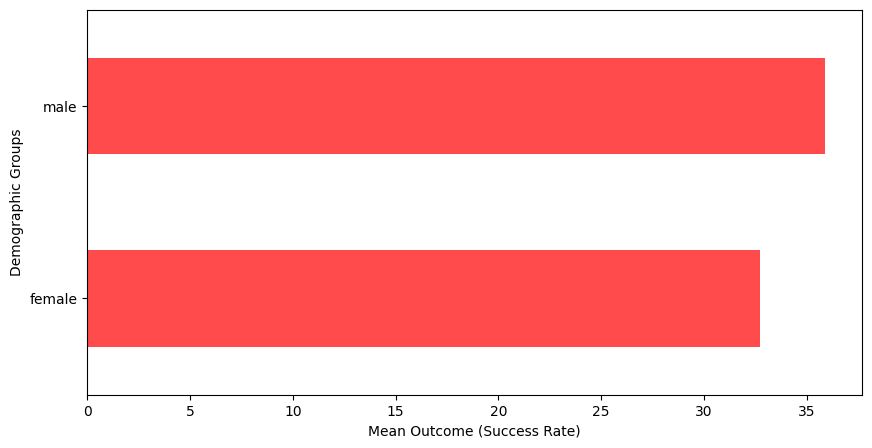
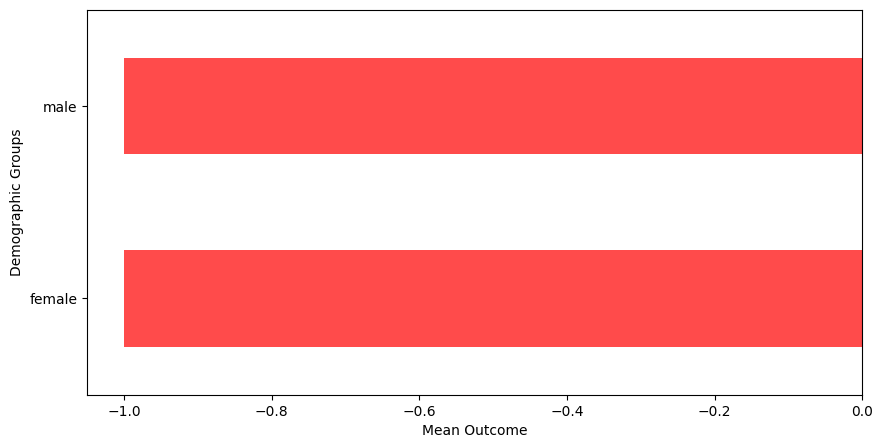
Changing the model

diff --git a/ai_auditor.py b/ai_auditor.py
@@ -57,7 +57,7 @@ def generate_ai_report(audit_results, is_mitigated=False):
     try:
         if client:
             # Using 1.5-flash for higher reliability during long generations
-            response = client.models.generate_content(model="gemini-1.5-flash", contents=prompt)
+            response = client.models.generate_content(model="gemini-2.5-flash-lite", contents=prompt)
             return {"risk": risk, "finding": response.text, "source": "Certified by Gemini 1.5 Flash"}
     except Exception:
         return {
@@ -97,7 +97,7 @@ def get_chatbot_response(user_query, audit_results, df_context):
     
     try:
         if client:
-            response = client.models.generate_content(model="gemini-1.5-flash", contents=prompt)
+            response = client.models.generate_content(model="gemini-2.5-flash-lite", contents=prompt)
             return response.text
     except Exception:
         return "I'm currently focused on the current audit. Feel free to ask about the bias score or column risks!"
@@ -238,21 +238,11 @@ Be concise and technical.
             return ""
 
         response = client.models.generate_content(
-            model="gemini-2.0-flash",
+            model="gemini-2.5-flash-lite",
             contents=prompt
         )
 
         return response.text
 
-    except:
-        # fallback (still contextual)
-        if context_type == "analysis" and stats:
-            gap = stats.get("gap", 0)
-            if gap > 15:
-                return "High disparity detected. Likely unfair across groups."
-            elif gap > 5:
-                return "Moderate disparity. Needs monitoring."
-            else:
-                return "Low disparity. System is relatively fair."
-
-        return "AI insight unavailable. Please check configuration."
+    except Exception as e:
+        st.error(f"Gemini Error: {e}")
